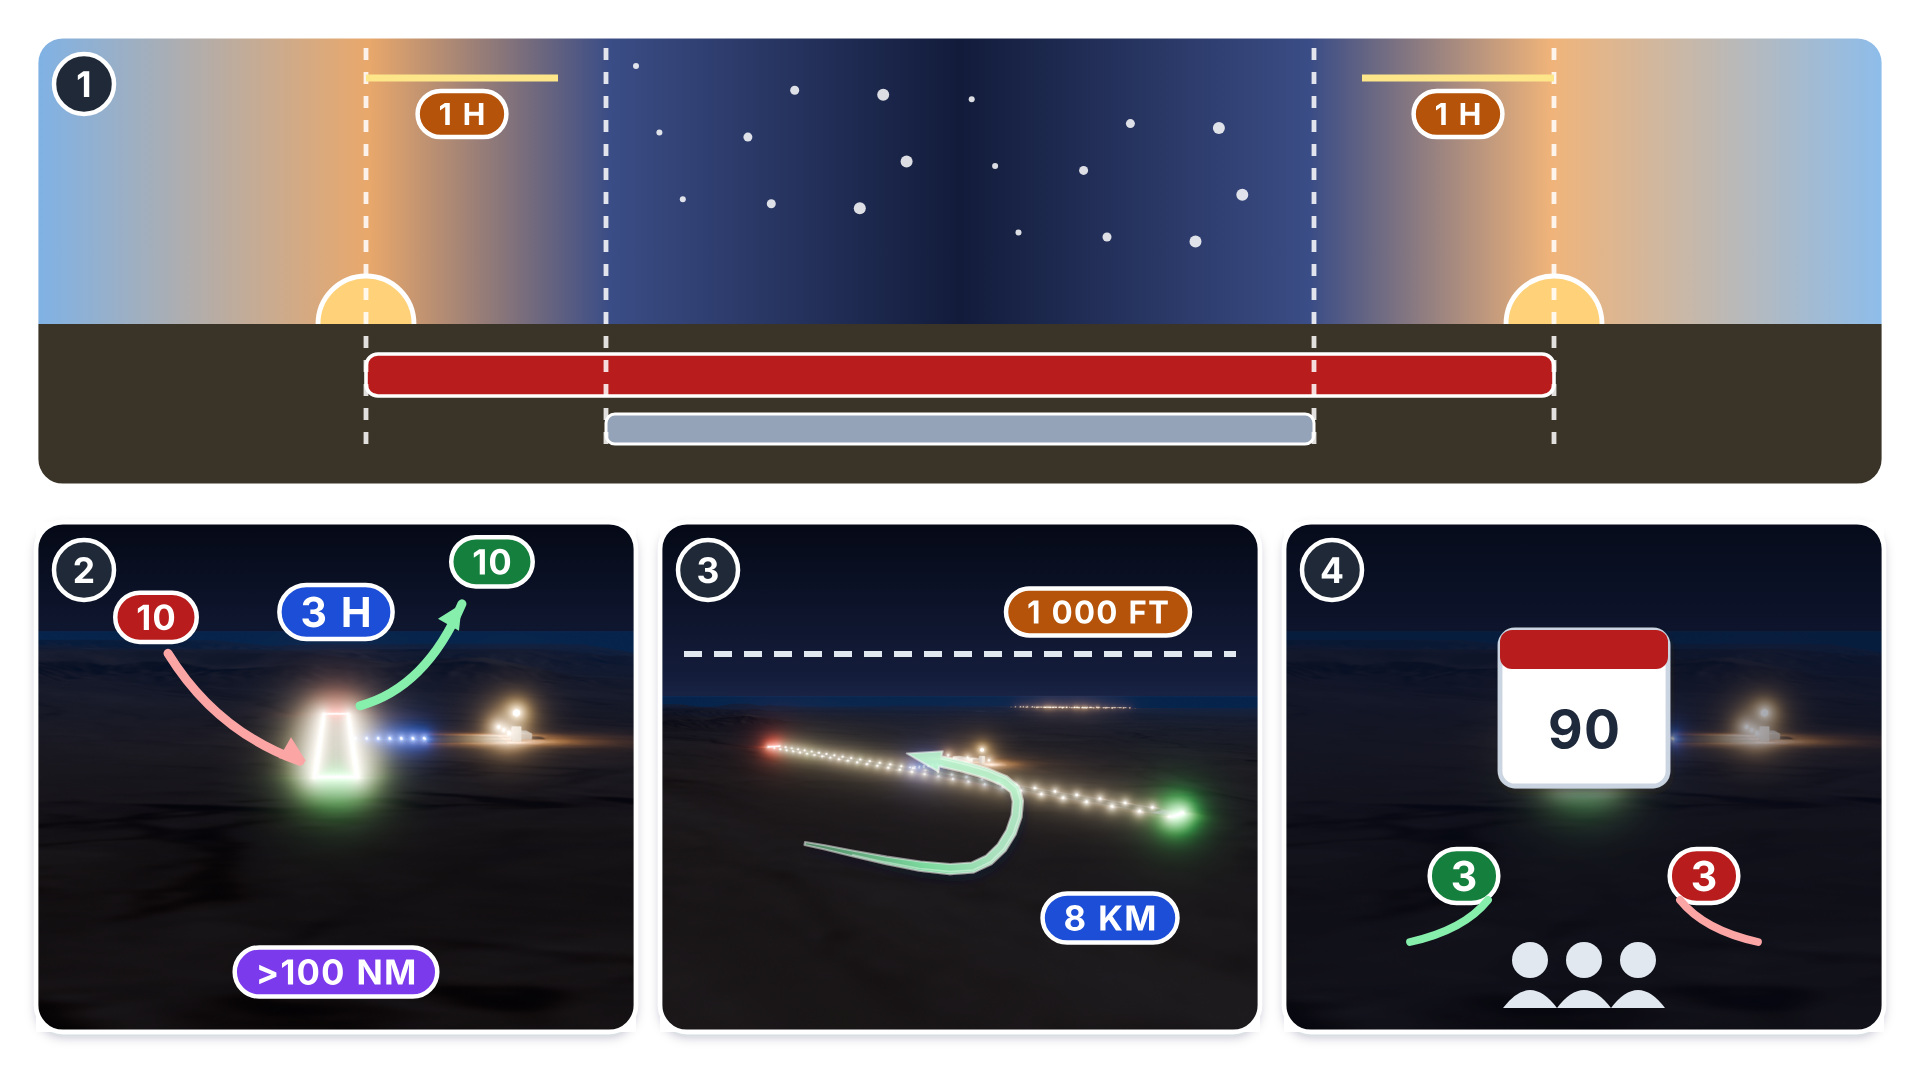
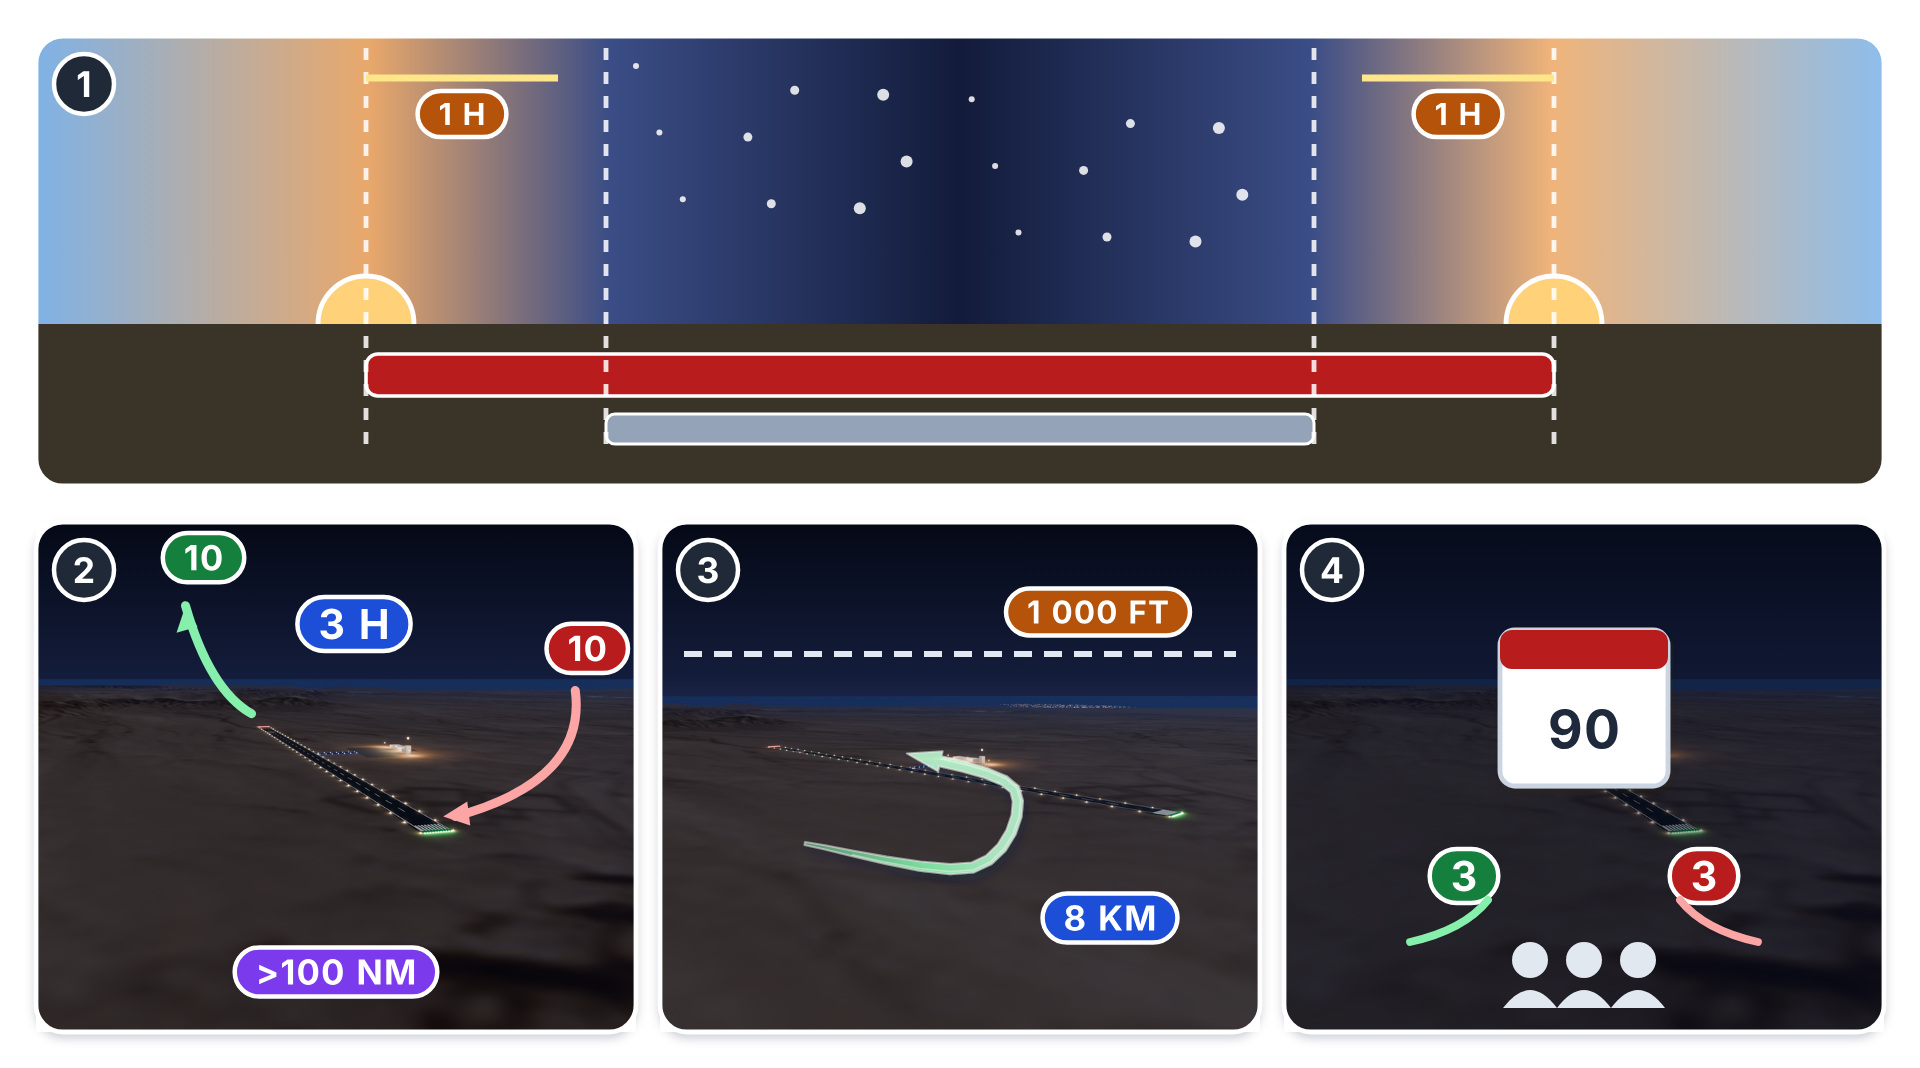
Plate 31-1: clearer night renders (small soft lights, brighter moon, twice the resolution) and tile 2's arrows placed round the new view
Claude-Session: https://claude.ai/code/session_01GaKzbGvzg6oJZTLUkbk9TR

diff --git a/09_book_figures/handbook/figs/f_31_01_night_rule.py b/09_book_figures/handbook/figs/f_31_01_night_rule.py
@@ -103,11 +103,11 @@ def course():
     under, img, frame = render_tile(f"{U}t2", x, "night-31-01-runway")
     a = at("night-31-01-runway", x)
     (tx, ty), (ex, ey) = a("thr"), a("end")
-    o = pill(x + TW / 2, TY + 30, "3 H", BLUE, size=10)
-    o += (f'<path d="M{n(ex + 8)} {n(ey - 2)} q22 -6 34 -34" fill="none" stroke="#86EFAC" stroke-width="3" stroke-linecap="round"/>'
-          f'<path d="M{n(ex + 42)} {n(ey - 36)} l-1 9 l-7 -4 Z" fill="#86EFAC"/>' + pill(ex + 52, ey - 50, "10", GREEN))
-    o += (f'<path d="M{n(tx - 56)} {n(ty - 40)} q16 26 44 36" fill="none" stroke="#FCA5A5" stroke-width="3" stroke-linecap="round"/>'
-          f'<path d="M{n(tx - 10)} {n(ty - 4)} l-9 -1 l4 -7 Z" fill="#FCA5A5"/>' + pill(tx - 60, ty - 52, "10", RED))
+    o = pill(x + TW / 2 + 6, TY + 34, "3 H", BLUE, size=10)
+    o += (f'<path d="M{n(ex - 4)} {n(ey - 4)} q-14 -8 -22 -36" fill="none" stroke="#86EFAC" stroke-width="3" stroke-linecap="round"/>'      # the takeoffs: off the far end, climbing away
+          f'<path d="M{n(ex - 26)} {n(ey - 40)} l-3 9 l7 -2 Z" fill="#86EFAC"/>' + pill(ex - 20, ey - 56, "10", GREEN))
+    o += (f'<path d="M{n(tx + 46)} {n(ty - 46)} q4 30 -40 42" fill="none" stroke="#FCA5A5" stroke-width="3" stroke-linecap="round"/>'        # the landings: down to the threshold
+          f'<path d="M{n(tx + 2)} {n(ty - 4)} l8 -5 l1 8 Z" fill="#FCA5A5"/>' + pill(tx + 50, ty - 60, "10", RED))
     o += pill(x + TW / 2, TY + 150, ">100 NM", VIOLET)
     return [under, img, o + frame]
 
